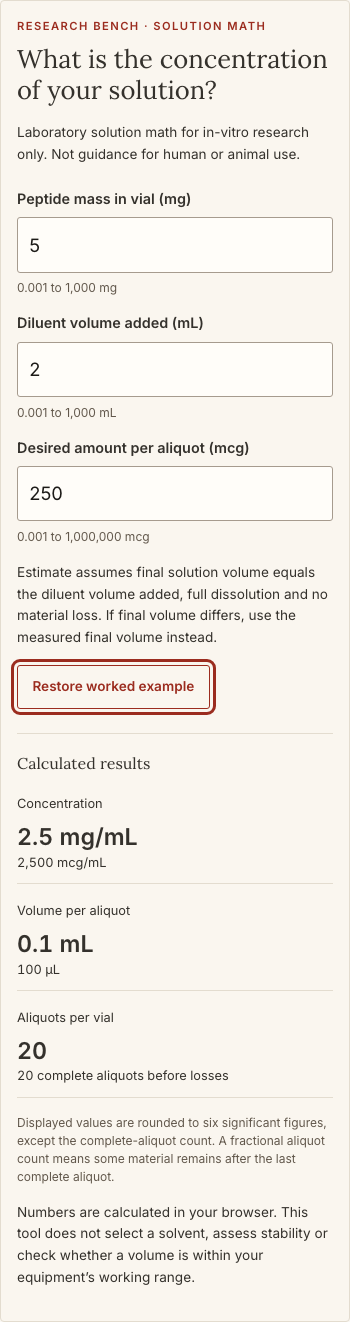
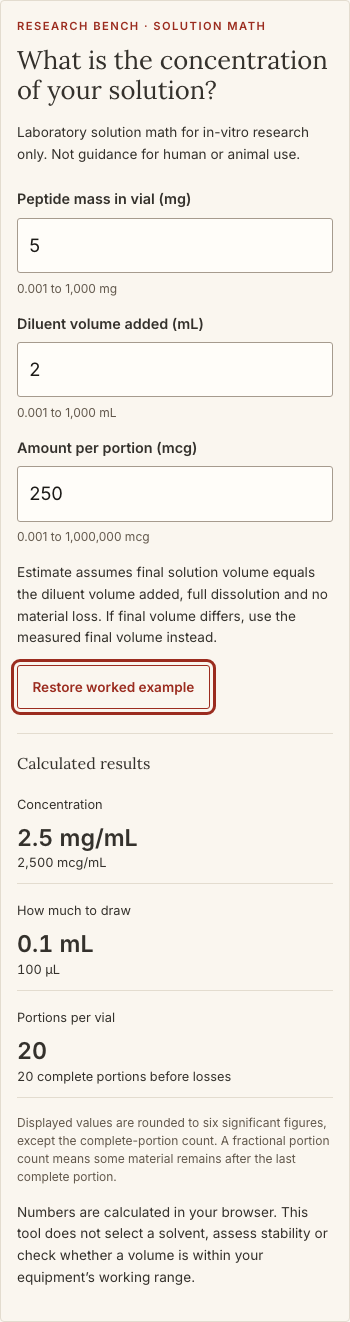
fix: address landing page review with exact decimal portion counts

diff --git a/app/peptide-calculator/story.ts b/app/peptide-calculator/story.ts
@@ -2,14 +2,15 @@ import type { NewsroomStory } from "@/components/NewsroomArticle";
 
 export const story: NewsroomStory = {
   slug: "peptide-calculator",
-  title: "Peptide calculator: concentration and aliquot math",
-  description: "Calculate research solution concentration in mg/mL and mcg/mL, aliquot volume in mL and µL, and aliquots per vial. Includes formulas and a worked example.",
+  title: "Peptide calculator: concentration and portion math",
+  description: "Calculate research solution concentration in mg/mL and mcg/mL, portion volume in mL and µL, and portions per vial. Includes formulas and a worked example.",
   date: "2026-11-04T03:30:32Z",
+  dateModified: "2026-11-04T04:11:55Z",
   type: "Article",
   category: "Laboratory tool",
   image: "peptideMathPipettes",
   vials: ["ghk", "kpv"],
-  lead: "This peptide calculator divides peptide mass by solution volume to find concentration, then calculates the volume needed for a chosen aliquot. An aliquot here is a measured portion of a laboratory solution. Enter mass in mg, volume in mL and the amount per aliquot in mcg. The calculation assumes a fully dissolved, uniform solution with no material loss.[6][7]",
+  lead: "This peptide calculator divides peptide mass by solution volume to find concentration, then calculates the volume needed for a chosen portion. Enter mass in mg, volume in mL and the amount per portion in mcg. The calculation assumes a fully dissolved, uniform solution with no material loss.[6][7]",
   notice: "Lab solution math for in-vitro research only, not guidance for human or animal use. The starting numbers below are a worked arithmetic example, not a recommended preparation.",
   sections: [
     {
@@ -23,29 +24,29 @@ export const story: NewsroomStory = {
     {
       title: "How does the concentration calculation work?", id: "how-the-math-works", paragraphs: [
         "Divide peptide mass in mg by final solution volume in mL to get mg/mL. Multiply that result by 1,000 to express the same concentration in mcg/mL. The mass-concentration definition uses the volume of the whole solution, rather than the solvent before mixing.[6][7]",
-        "For the aliquot volume, divide the desired amount in mcg by concentration in mcg/mL. The result is in mL. Multiply by 1,000 to express that volume in µL. These are rearrangements of the same mass-per-volume relationship.[6][7]",
-        "For aliquots per vial, divide total peptide mass in mcg by the amount per aliquot in mcg. The calculator also shows the number of complete aliquots, rounded down. This count assumes all the starting material remains available and that each portion has the calculated concentration.",
+        "For the portion volume, divide the desired amount in mcg by concentration in mcg/mL. The result is in mL. Multiply by 1,000 to express that volume in µL. These are rearrangements of the same mass-per-volume relationship.[6][7]",
+        "For portions per vial, divide total peptide mass in mcg by the amount per portion in mcg. The calculator also shows the number of complete portions, rounded down. This count assumes all the starting material remains available and that each portion has the calculated concentration.",
       ],
     },
     {
       title: "What does a worked example look like?", id: "worked-example", paragraphs: [
         "Suppose the stated peptide mass is 5 mg and the final solution volume is 2 mL. The concentration is 5 ÷ 2 = 2.5 mg/mL, or 2,500 mcg/mL. This is a fictional arithmetic example without a named compound.[6][7]",
-        "For a 250 mcg aliquot, divide 250 by 2,500. The result is 0.1 mL, which equals 100 µL. The vial contains 5,000 mcg in this example, so 5,000 ÷ 250 gives 20 aliquots before losses.[6]",
-        "If the desired amount changes to 300 mcg, the volume becomes 0.12 mL, or 120 µL. There are about 16.6667 aliquots in the mathematical total, but only 16 complete ones. The remaining material is not another full aliquot.",
+        "For a 250 mcg portion, divide 250 by 2,500. The result is 0.1 mL, which equals 100 µL. The vial contains 5,000 mcg in this example, so 5,000 ÷ 250 gives 20 portions before losses.[6]",
+        "If the desired amount changes to 300 mcg, the volume becomes 0.12 mL, or 120 µL. There are about 16.6667 portions in the mathematical total, but only 16 complete ones. The remaining material is not another full portion.",
       ],
     },
     {
       title: "Which input mistakes change the answer?", id: "common-mistakes", paragraphs: [
-        "Confusing mg with mcg changes the entered amount by a factor of 1,000. The form uses mg for the vial and mcg for the aliquot, so read both labels before copying a number. We use mcg as the plain-text spelling of micrograms and µL for microliters.[6]",
+        "Confusing mg with mcg changes the entered amount by a factor of 1,000. The form uses mg for the vial and mcg for the portion, so read both labels before copying a number. We use mcg as the plain-text spelling of micrograms and µL for microliters.[6]",
         "Another mistake is treating added diluent volume as a measured final volume. Dissolution can change the volume of the mixture. The tool initially assumes the two are equal; if volume displacement matters in your preparation, enter the measured final solution volume in the volume field instead.[7]",
         "Total powder mass may include water, counterions or residual solvents. It is not necessarily the same as the mass of the target peptide. A chromatographic purity figure does not, by itself, resolve that difference. Our [content-versus-purity explainer](/peptide-content-vs-purity-measurement) describes how laboratories assign an amount.[3]",
-        "Rounding also matters. Calculations use the entered values before display rounding, and the complete-aliquot count is rounded down. Keep the original measurements in your laboratory record rather than treating the displayed digits as evidence of measurement precision.",
+        "Rounding also matters. Calculations use the entered values before display rounding, and the complete-portion count is rounded down. Keep the original measurements in your laboratory record rather than treating the displayed digits as evidence of measurement precision.",
       ],
     },
     {
       title: "Why does the calculator reject some values?", id: "input-limits", paragraphs: [
-        "The form accepts positive decimal numbers within its displayed ranges: 0.001 to 1,000 mg for mass, 0.001 to 1,000 mL for volume, and 0.001 to 1,000,000 mcg for an aliquot. These are software limits, not evidence that a particular preparation is practical.",
-        "Blank entries, zero, negative values and non-numeric text pause the results. Use a period for decimals and omit commas. The tool also rejects an aliquot larger than the total entered peptide mass. Correct the marked field to resume the calculation.",
+        "The form accepts positive decimal numbers within its displayed ranges: 0.001 to 1,000 mg for mass, 0.001 to 1,000 mL for volume, and 0.001 to 1,000,000 mcg for a portion. These are software limits, not evidence that a particular preparation is practical.",
+        "Blank entries, zero, negative values and non-numeric text pause the results. Use a period for decimals and omit commas. The tool also rejects a portion larger than the total entered peptide mass. Correct the marked field to resume the calculation.",
       ],
     },
     {
@@ -57,7 +58,7 @@ export const story: NewsroomStory = {
   ],
   faqs: [
     { q: "What is the concentration of 5 mg in 2 mL?", a: "If the final solution volume is 2 mL and the peptide is fully dissolved, 5 mg divided by 2 mL is 2.5 mg/mL, or 2,500 mcg/mL. This is an arithmetic example, not a recommended preparation.", refs: [6, 7] },
-    { q: "How much solution contains a 250 mcg aliquot in that example?", a: "At 2,500 mcg/mL, 250 mcg corresponds to 0.1 mL, or 100 µL. A starting mass of 5 mg gives 20 such aliquots mathematically, before any losses.", refs: [6, 7] },
+    { q: "How much solution contains a 250 mcg portion in that example?", a: "At 2,500 mcg/mL, 250 mcg corresponds to 0.1 mL, or 100 µL. A starting mass of 5 mg gives 20 such portions mathematically, before any losses.", refs: [6, 7] },
     { q: "Should I enter diluent volume or final solution volume?", a: "The concentration formula requires final solution volume. The tool assumes it equals the added diluent volume. If dissolution changes the volume enough to matter, use the measured final solution volume instead.", refs: [7] },
     { q: "Does a high purity percentage confirm the mass in a vial?", a: "No. Chromatographic purity and peptide content describe different measurements. Water, counterions and other constituents can affect the mass accounting. The calculator cannot establish the actual amount of peptide present.", refs: [3] },
   ],

diff --git a/lib/peptide-math.ts b/lib/peptide-math.ts
@@ -1,40 +1,60 @@
 export const solutionFields = {
   mass: { label: "Peptide mass in vial (mg)", min: 0.001, max: 1000, range: "0.001 to 1,000 mg" },
   volume: { label: "Diluent volume added (mL)", min: 0.001, max: 1000, range: "0.001 to 1,000 mL" },
-  aliquot: { label: "Desired amount per aliquot (mcg)", min: 0.001, max: 1000000, range: "0.001 to 1,000,000 mcg" },
+  portion: { label: "Amount per portion (mcg)", min: 0.001, max: 1000000, range: "0.001 to 1,000,000 mcg" },
 } as const;
 export type SolutionField = keyof typeof solutionFields;
 export type SolutionErrors = Partial<Record<SolutionField, string>>;
 
+// Call only after decimal syntax validation. Preserve every entered digit for
+// range/capacity comparisons and the whole-portion quotient, never a tolerance.
+function decimalRatio(text: string) {
+  const [whole, fraction = ""] = text.split(".");
+  return { numerator: BigInt(whole + fraction), denominator: BigInt(10) ** BigInt(fraction.length) };
+}
+
 // Decimal text only: reject partial parses, hexadecimal, comma ambiguity and non-finite values.
-export function calculateSolution(mass: string, volume: string, aliquot: string) {
-  const raw = { mass, volume, aliquot };
+export function calculateSolution(mass: string, volume: string, portion: string) {
+  const raw = { mass, volume, portion };
   const errors: SolutionErrors = {};
   const values = {} as Record<SolutionField, number>;
+  const exact = {} as Record<SolutionField, ReturnType<typeof decimalRatio>>;
   for (const field of Object.keys(solutionFields) as SolutionField[]) {
     const text = raw[field].trim();
     const value = Number(text);
     const rule = solutionFields[field];
     if (!/^(?:\d+(?:\.\d*)?|\.\d+)$/.test(text) || !Number.isFinite(value)) {
       errors[field] = `Enter a decimal number in ${rule.range}; use a period for decimals.`;
-    } else if (value < rule.min || value > rule.max) {
-      errors[field] = `Enter a value from ${rule.range}. Zero and negative values are not accepted.`;
+    } else {
+      const decimal = decimalRatio(text);
+      const min = decimalRatio(String(rule.min));
+      const max = decimalRatio(String(rule.max));
+      exact[field] = decimal;
+      if (decimal.numerator * min.denominator < min.numerator * decimal.denominator ||
+          decimal.numerator * max.denominator > max.numerator * decimal.denominator) {
+        errors[field] = `Enter a value from ${rule.range}. Zero and negative values are not accepted.`;
+      }
     }
     values[field] = value;
   }
   if (Object.keys(errors).length) return { ok: false as const, errors };
-  const { mass: massMg, volume: volumeMl, aliquot: aliquotMcg } = values;
-  if (aliquotMcg > massMg * 1000) {
-    return { ok: false as const, errors: { aliquot: "The requested aliquot exceeds the total peptide mass in this vial." } as SolutionErrors };
+  const { mass: massMg, volume: volumeMl, portion: portionMcg } = values;
+  // Cross-multiply into the same exact scale in mcg. Positive integer division
+  // floors genuine fractional portions, including digits Number() cannot retain.
+  const total = exact.mass.numerator * BigInt(1000) * exact.portion.denominator;
+  const requested = exact.portion.numerator * exact.mass.denominator;
+  if (requested > total) {
+    return { ok: false as const, errors: { portion: "The requested portion exceeds the total peptide mass in this vial." } as SolutionErrors };
   }
+  // The supported ranges cap this integer at 1,000,000,000, safely within Number.
+  const fullPortions = Number(total / requested);
+  const portions = total % requested === BigInt(0) ? fullPortions : massMg * 1000 / portionMcg;
+  // Floating point is only for approximate displayed concentration/volume, not
+  // acceptance or complete counts. An exact whole vial uses its entered volume.
   const mgPerMl = massMg / volumeMl;
   const mcgPerMl = mgPerMl * 1000;
-  const aliquotMl = aliquotMcg / mcgPerMl;
-  const aliquots = massMg * 1000 / aliquotMcg;
-  // Correct only machine-rounding noise at an integer boundary, not a real remainder.
-  const nearest = Math.round(aliquots);
-  const fullAliquots = Math.floor(Math.abs(aliquots - nearest) <= Number.EPSILON * Math.max(1, aliquots) * 4 ? nearest : aliquots);
-  return { ok: true as const, mgPerMl, mcgPerMl, aliquotMl, aliquotUl: aliquotMl * 1000, aliquots, fullAliquots };
+  const portionMl = total === requested ? volumeMl : portionMcg / mcgPerMl;
+  return { ok: true as const, mgPerMl, mcgPerMl, portionMl, portionUl: portionMl * 1000, portions, fullPortions };
 }
 
 export function formatLabNumber(value: number): string {

diff --git a/components/PeptideCalculator.tsx b/components/PeptideCalculator.tsx
@@ -4,10 +4,10 @@ import { useState } from "react";
 import { calculateSolution, formatLabNumber, solutionFields, type SolutionField } from "@/lib/peptide-math";
 import styles from "./PeptideCalculator.module.css";
 
-const example = { mass: "5", volume: "2", aliquot: "250" };
+const example = { mass: "5", volume: "2", portion: "250" };
 export function PeptideCalculator() {
   const [values, setValues] = useState(example);
-  const result = calculateSolution(values.mass, values.volume, values.aliquot);
+  const result = calculateSolution(values.mass, values.volume, values.portion);
   return <section className={`not-prose ${styles.tool}`} aria-labelledby="calculator-heading" data-calculator>
     <p className={styles.eyebrow}>Research bench · solution math</p>
     <h2 id="calculator-heading">What is the concentration of your solution?</h2>
@@ -34,10 +34,10 @@ export function PeptideCalculator() {
         <h3>Calculated results</h3>
         <dl>
           <div><dt>Concentration</dt><dd><span data-result="mg-per-ml">{formatLabNumber(result.mgPerMl)}</span> mg/mL <small><span data-result="mcg-per-ml">{formatLabNumber(result.mcgPerMl)}</span> mcg/mL</small></dd></div>
-          <div><dt>Volume per aliquot</dt><dd><span data-result="aliquot-ml">{formatLabNumber(result.aliquotMl)}</span> mL <small><span data-result="aliquot-ul">{formatLabNumber(result.aliquotUl)}</span> µL</small></dd></div>
-          <div><dt>Aliquots per vial</dt><dd><span data-result="aliquots">{formatLabNumber(result.aliquots)}</span> <small><span data-result="full-aliquots">{result.fullAliquots.toLocaleString("en-US")}</span> complete aliquots before losses</small></dd></div>
+          <div><dt>How much to draw</dt><dd><span data-result="portion-ml">{formatLabNumber(result.portionMl)}</span> mL <small><span data-result="portion-ul">{formatLabNumber(result.portionUl)}</span> µL</small></dd></div>
+          <div><dt>Portions per vial</dt><dd><span data-result="portions">{formatLabNumber(result.portions)}</span> <small><span data-result="full-portions">{result.fullPortions.toLocaleString("en-US")}</span> complete portions before losses</small></dd></div>
         </dl>
-        <p className={styles.hint}>Displayed values are rounded to six significant figures, except the complete-aliquot count. A fractional aliquot count means some material remains after the last complete aliquot.</p>
+        <p className={styles.hint}>Displayed values are rounded to six significant figures, except the complete-portion count. A fractional portion count means some material remains after the last complete portion.</p>
       </> : <p className={styles.error}>Results paused. {Object.values(result.errors).join(" ")}</p>}
     </div>
     <p className={styles.note}>Numbers are calculated in your browser. This tool does not select a solvent, assess stability or check whether a volume is within your equipment’s working range.</p>

diff --git a/app/what-are-peptides/story.ts b/app/what-are-peptides/story.ts
@@ -5,6 +5,7 @@ export const story: NewsroomStory = {
   title: "What are peptides? Structure, synthesis and laboratory testing",
   description: "Peptides are amino acid chains joined by peptide bonds. Learn how they differ from proteins, how laboratories make them, and what testing can establish.",
   date: "2026-11-04T03:30:32Z",
+  dateModified: "2026-11-04T04:11:55Z",
   type: "Article",
   category: "Explainer",
   image: "peptideBasicsSynthesizer",
@@ -24,7 +25,7 @@ export const story: NewsroomStory = {
     {
       title: "What holds a peptide chain together?", id: "peptide-bonds", paragraphs: [
         "The link is an amide bond, called a peptide bond when it connects amino acids. In the basic chemical description, an amino group reacts with a carboxyl group and water is released. Repeating that connection creates a chain. A chain of two amino acids is a dipeptide; three make a tripeptide.[1]",
-        "A sequence records the order of those amino acids. By convention, it is written from the amino end, called the N-terminus, toward the carboxyl end, called the C-terminus. Reading the same list backward describes a different sequence.[1]",
+        "A sequence records the order of those amino acids. By convention, it is written from the amino end, called the N-terminus, toward the carboxyl end, called the C-terminus. Reading the list backward can describe a different sequence. A palindromic sequence, however, reads the same in both directions.[1]",
         "That order is part of the molecule's identity, not merely a way to label a bottle. The same amino acid composition can produce different behavior when the sequence changes. Our explainer on [scrambled peptide controls](/scrambled-peptide-controls-not-inactive) follows that problem into laboratory experiments.[1]",
       ],
     },
@@ -92,7 +93,7 @@ export const story: NewsroomStory = {
     { id: 4, url: "https://www.fda.gov/media/87374/download", title: "FDA: Research use only diagnostic products (2013)" },
   ],
   related: [
-    { url: "/peptide-calculator", title: "Peptide calculator: concentration and aliquot math" },
+    { url: "/peptide-calculator", title: "Peptide calculator: concentration and portion math" },
     { url: "/peptide-content-vs-purity-measurement", title: "Peptide content versus purity" },
     { url: "/how-to-read-peptide-coa", title: "How to read a peptide certificate of analysis" },
     { url: "/what-does-research-use-only-mean", title: "What research use only means" },

diff --git a/app/sitemap.ts b/app/sitemap.ts
@@ -8,13 +8,13 @@ export default function sitemap(): MetadataRoute.Sitemap {
   return [
     {
       url: `${base}/what-are-peptides`,
-      lastModified: new Date("2026-11-04T03:30:32Z"),
+      lastModified: new Date("2026-11-04T04:11:55Z"),
       changeFrequency: "monthly",
       priority: 0.85,
     },
     {
       url: `${base}/peptide-calculator`,
-      lastModified: new Date("2026-11-04T03:30:32Z"),
+      lastModified: new Date("2026-11-04T04:11:55Z"),
       changeFrequency: "monthly",
       priority: 0.85,
     },
@@ -404,7 +404,7 @@ export default function sitemap(): MetadataRoute.Sitemap {
     },
     {
       url: base,
-      lastModified: new Date("2026-11-02T13:40:00Z"),
+      lastModified: new Date("2026-11-04T04:11:55Z"),
       changeFrequency: "daily",
       priority: 1,
     },

diff --git a/app/page.tsx b/app/page.tsx
@@ -32,8 +32,8 @@ const latestArticles: CardArticle[] = [
     category: "Laboratory tool",
     date: "November 3, 2026",
     readTime: "5 min read",
-    title: "Peptide calculator: concentration and aliquot math",
-    excerpt: "Check research solution concentration, aliquot volume and aliquots per vial. Includes a worked example and the limits of the calculation.",
+    title: "Peptide calculator: concentration and portion math",
+    excerpt: "Check research solution concentration, portion volume and portions per vial. Includes a worked example and the limits of the calculation.",
     image: "peptideMathPipettes",
   },
 {

diff --git a/reports/qa/ads-landing-pages-20261103/README.md b/reports/qa/ads-landing-pages-20261103/README.md
@@ -1,78 +1,75 @@
-# Ads-intent evergreen pages: local acceptance evidence
+# Ads-intent evergreen pages: FIX1 local acceptance evidence
 
-State: PR-ready. Builder owns feature-delivery gates 1–7 only. Independent review and release gates remain with the parent; no merge or deployment is authorized.
+State: **In review**. PR #37's bounded correction round follows independent review of `d172c5f5f9c15ee214662a1aa5b3fbc3aa8668d7`. This is not approval to merge or deploy; the revised head requires independent re-review.
 
-## Scope and implementation
+## Findings addressed
 
-- Adds `/what-are-peptides`: direct definition, peptide bonds and size conventions, natural/synthetic production, SPPS, HPLC/mass spectrometry, purity/content, RUO scope, and approved-medicine context without efficacy or administration guidance.
-- Adds `/peptide-calculator`: client-only lab arithmetic with bounded positive-decimal inputs, associated labels/errors, polite live results, reset, final-volume caveat and a worked example. No compound names in the tool. No new persistence, requests, analytics or dependencies.
-- Both use the existing ArticleHero/NewsroomArticle metadata, Article + FAQPage JSON-LD, matching visible FAQs, canonical/OG, related links, and unchanged IQONPartner cards twice with different starting vials. Homepage and sitemap entries added. Distinct Commons photos and adaptation credits registered.
-- Retains the resumed `NewsroomArticle` optional children slot because it hosts the calculator without duplicating the article template. Existing articles pass no children and preserve their markup.
-- Retains package scripts for tests/types; adds `npm test` for the two test files. No dependency/lockfile changes.
-- Full lint initially exposed pre-existing errors. `IQONLink` replaces `any` with a local type; its transpiled JavaScript was compared with origin/main and is byte-for-byte identical. ESLint excludes only historical `reports/copy-review/before/**` snapshots, not application source.
-- `vercel.json` disables automatic deployment for this exact feature branch only. Other branches retain Vercel defaults. This is necessary because the connected Git integration otherwise creates preview deployments on push.
+| Review finding | Status | Change and evidence |
+| --- | --- | --- |
+| 1. Owner terminology | FIXED in authorized scope | Both new stories, calculator, validation errors, homepage card and related link use plain portion wording. Exact UI labels: “Amount per portion (mcg)”, “How much to draw”, “Portions per vial”. Internal names and DOM attributes also renamed. Raw served HTML of both new routes has zero `/aliquot/i` hits and zero full banned-term matches, including metadata/schema/serialized content. Visible FAQ questions and answers match FAQPage JSON-LD. |
+| 2. Decimal boundaries | FIXED | Exact decimal BigInt ratios enforce ranges, compare capacity and floor the complete-portion quotient. No EPSILON promotion. Approximate display rounding stays separate. RED tests reproduced the ordinary whole-vial rejection, false extra complete portion and excessive-precision acceptance before the math change. |
+| 3. Sitemap dates | FIXED | Homepage and both new routes use `2026-11-04T04:11:55Z` (November 3 in New York), the correction-session timestamp. New stories preserve publication dates and set matching `dateModified`. Historical sitemap dates and shared `now` remain untouched. Served sitemap and Article schema checked. |
+| 5. Sequence reversal | FIXED | Reversal “can” change the sequence; palindromic sequences explicitly read the same both ways. |
+| Parent follow-up: remove branch config | FIXED | New `vercel.json` deleted. Parent controls deployment outside this PR; no branch-specific config should land on main. |
+| 4. Existing broad terminology across 33/73 routes | OUT OF SCOPE, unchanged | This is not a full-domain terminology PASS. Historical articles, including seven historical jargon-bearing lines, remain unchanged. Parent retains release-policy/process decisions. |
 
-## Tests exercised
+## Executed verification
 
 | Check | Result |
 | --- | --- |
-| `npm run build` | PASS, Next.js 16.3.6; 77 generated pages |
-| `npm run lint` | PASS, zero errors/warnings after the scoped baseline fixes |
-| `npm run typecheck` | PASS (`tsc --noEmit`) |
-| `npm test` | PASS, 42 tests, zero failed/skipped: 40 math/input tests and 2 page-contract tests |
-| `git diff --check` | PASS |
-| 5 mg / 2 mL / 250 mcg | 2.5 mg/mL; 2,500 mcg/mL; 0.1 mL; 100 µL; 20 aliquots |
-| Browser edits | Changing values recomputes; invalid values remove stale results; excess aliquot rejected; fractional remainder rounds complete count down |
-| Browser accessibility checks | Explicit labels, linked range/error text, `aria-invalid`, polite live status; normal Tab order and Enter reset verified |
-| Built `next start`, Playwright from `/tmp/pwq` | Both routes and home return 200 at 390px and 1440px; no horizontal overflow, broken images or page errors |
-| SEO/rendered structure | One H1, one exact canonical, correct OG URL; Article and FAQPage parsed; schema answers equal visible answers; two big cards with early placement verified |
-| New-route raw HTML exclusions | Zero matches for the requested full banned-term regex on both routes, including scripts/attributes |
-| Sitewide regression | All 73 sitemap URLs return 200 with one exact route canonical; zero excluded-compound matches in raw HTML, decoded links, JSON-LD and parsed visible text |
-| SlopMonster, actual served HTML | Explainer **5/5**, calculator **4/5**; calculator flags two self-answering question patterns. Question headings/visible FAQ are intentional requirements. No score override used. |
+| `npm run build` | Exit 0; Next.js 16.3.6, 77/77 static pages |
+| `npm run lint` | Exit 0 |
+| `npm run typecheck` | Exit 0 |
+| `npm test` | Exit 0; **51 passed, 0 failed, 0 skipped** |
+| RED test run | Exit 1; 51 tests, 8 failed as expected (two wording, six exact-decimal regressions); 43 passed |
+| `next start` + Playwright | Both new routes and homepage at 390px touch viewport and 1440px: 6/6 HTTP 200; no horizontal overflow, broken images or page errors |
+| Browser calculation | New labels; required reference example, whole-vial decimal, near-integer remainder and ordinary fractions all tested by filling actual inputs |
+| Browser validation/accessibility | Invalid inputs remove stale results; exact oversized decimal rejected; ordinary Tab order, Enter reset and desktop input alignment pass |
+| Served exclusions | **2/2 new routes: 0 hits**, including scripts/attributes; separate `/aliquot/i` check also 0 |
+| Rendered SEO/schema | One H1 and exact canonical per new route; Article dates checked; visible FAQ questions AND answers equal schema |
+| SlopMonster on served HTML | Explainer **5/5**, 1,831 visible words, exit 0; calculator **4/5**, 1,431 words, exit 1 (two intentional question-heading patterns; no override) |
 
-The page-contract test was run before the pages existed and failed for missing stories. A desktop input-alignment test reproduced the wrapped-label offset, then passed after reserving two lines for desktop labels. Existing math RED/GREEN logs from the resumed work are retained.
+Numerical outcomes verified in tests and the actual production browser:
+
+- `5 / 2 / 250`: 2.5 mg/mL, 2,500 mcg/mL, 0.1 mL, 100 µL, **20 complete portions**.
+- `1.001 / 2 / 1001`: accepted, **1 portion**, 2 mL / 2,000 µL.
+- `0.001 / 1 / 0.10000000000000005`: **9 complete portions**, not 10. The approximate six-significant-figure total displays 10; the separately labeled complete count remains exactly 9.
+- `0.001 / 1 / 1.0000000000000001`: rejected as larger than the entered total, despite Number() alone losing that distinction.
+- `19.9999 / 2 / 1000` and `19.6 / 2 / 1000`: **19 complete portions** each. Exact 20 remains 20.
 
 ## Reproduction and evidence
 
 Worktree: `/Users/edorfanini/Projects/peptidedigest-ads-20261103`
 
-Private evidence directory: `/Users/edorfanini/.hermes/workspace/peptide-digest-ads-pages/`
+Evidence directory: `/Users/edorfanini/.hermes/workspace/peptide-digest-ads-pages/`
 
 ```sh
 npm run build
 npm run lint
 npm run typecheck
 npm test
-npm run start -- --port 3127 --hostname 127.0.0.1
-# Separate terminal, using installed Playwright at /tmp/pwq:
-node /Users/edorfanini/.hermes/workspace/peptide-digest-ads-pages/browser-qa.mjs
-python3 /Users/edorfanini/.hermes/workspace/peptide-digest-ads-pages/audit.py
-python3 /tmp/peptide-slopmonster/tools/deslop.py /Users/edorfanini/.hermes/workspace/peptide-digest-ads-pages/what-are-peptides.html
-python3 /tmp/peptide-slopmonster/tools/deslop.py /Users/edorfanini/.hermes/workspace/peptide-digest-ads-pages/peptide-calculator.html
+npm run start -- --port 3197 --hostname 127.0.0.1
+# Separate terminal:
+node /Users/edorfanini/.hermes/workspace/peptide-digest-ads-pages/FIX1-browser.mjs
+python3 /tmp/peptide-slopmonster/tools/deslop.py /Users/edorfanini/.hermes/workspace/peptide-digest-ads-pages/FIX1-what-are-peptides.html
+python3 /tmp/peptide-slopmonster/tools/deslop.py /Users/edorfanini/.hermes/workspace/peptide-digest-ads-pages/FIX1-peptide-calculator.html
 ```
 
-Logs in that directory: `build.txt`, `lint.txt`, `types.txt`, `tests.txt`, `browser-qa.json`, `browser-qa.txt`, `sitewide-scan.json`, `audit.txt`, `slop-what-are-peptides.txt`, `slop-peptide-calculator.txt`, `pages-red.txt`, `alignment-red.txt`. SlopMonster returns exit 1 below 5/5, including the accepted 4/5 calculator result.
+Saved evidence: `FIX1-build.txt`, `FIX1-lint.txt`, `FIX1-typecheck.txt`, `FIX1-tests-red.txt`, `FIX1-tests-green.txt`, `FIX1-browser.mjs`, `FIX1-browser.json`, `FIX1-browser-run.txt`, `FIX1-sitemap.xml`, `FIX1-*-rendered.txt`, `FIX1-*.html`, `FIX1-slop-*.txt`. `FIX1-RESULT.md` records the final commit/push receipt.
 
-Phone screenshots, copied below for PR review:
+Refreshed screenshots copied into this report directory:
 
 - `what-are-peptides-390.png`
 - `peptide-calculator-390.png`
-- `peptide-calculator-tool-full-390.png` (350px component inside the 390px viewport)
-- `peptide-calculator-tool-full-1440.png` (desktop component)
+- `peptide-calculator-tool-full-390.png` — 350px component inside a verified 390px viewport; viewport height increased only for the full-component capture so fixed bars do not cover it.
+- `peptide-calculator-tool-full-1440.png`
 
-The evidence directory also includes full-page screenshots for both routes at both widths and home captures. No image substitution was used. External requests were blocked during browser QA so existing analytics did not receive local test traffic; all local images loaded normally.
+Third-party traffic was blocked during local QA, preventing test analytics. Local image assets loaded normally without substitution. All captures are from the new production build.
 
-## Gate 6 self-review
+## Scope and remaining gates
 
-Reviewed all changed application files against the requested scope and current origin/main `325bfd8d9bd0fdfd92bbae65b4cdac4b6296cce0`. No shared offer, layout, live ad, backend, dependency, credential or existing article content changes. Final origin/main check was unchanged. Sources were actually opened from retained captures or live downloads; the retrieved ledger preserves IDs and verbatim evidence. Paragraph-to-source maps and complete drafts are saved privately. No invented interviews or experimental results.
-
-Editorial pass: the definition comes first; sequence leads into synthesis, then measurements, then intended use. The size-boundary paragraph identifies the textbook and regulatory conventions instead of presenting either as universal. The calculator explains final volume beside its inputs and distinguishes mathematical aliquots from complete portions. Both conclude their editorial explanation before the final offer. No mid-sentence em dashes in new stories.
-
-## Limitations and release notes
-
-- This is a local build, not independent editorial/safety approval, clinical validation, an Ads-policy approval or production verification. The existing commercial cards/sticky bar remain unchanged; wording alone cannot guarantee advertising eligibility.
-- The build retains the pre-existing Next.js middleware-to-proxy deprecation warning. Migrating middleware is outside this feature.
-- Optional molarity is intentionally omitted. Software input bounds do not certify real-world preparation or equipment suitability. No screen-reader session or physical-device testing was performed; accessibility evidence is semantic/keyboard/browser-based.
-- The IUPAC primary definition was bot-blocked even after recovery attempts. The calculator cites the actually opened secondary mass-concentration explanation for the definition/final-volume distinction and NIST for prefix conversions. It does not pretend that IUPAC was opened.
-- The bundled citation verifier truncates URLs containing parentheses, producing false URL mismatches for LibreTexts and Wikipedia even in its own plain rendering. That failure is not called a PASS. An independent structured check verifies exact source IDs/URLs (including parentheses), matching source blocks and evidence for every cited source; `audit.txt` records its PASS.
-- No migrations or environment variables. Rollback is a revert of the feature commit. Do not merge/deploy until independent gates pass. Remove or deliberately revise the feature-branch deployment opt-out only when a preview is authorized.
+- No historical article content, shared article renderer, offers, layout, live ads, backend, dependencies, credentials or migrations changed in FIX1. The optional calculator slot and baseline type/lint fixes from the original feature remain as reviewed.
+- No deployment command or merge is authorized. Deleting `vercel.json` is the parent's explicit follow-up; deployment control belongs to the parent, not a branch-specific config left in main. Actual remote deployment/check observations are recorded separately after push.
+- Independent review A remains the preserved audit of the old head, not an approval inherited by this fix. Historical broad-term policy, generated-image versus licensed-photo applicability, saved-post SEO mapping and final review/freeze gates remain with the parent.
+- The existing middleware-to-proxy deprecation warning remains. No physical-device or screen-reader application test, Ads approval, clinical validation, ranking claim or live-production verification is asserted.
+- Rollback: revert the scoped fix commit for these corrections, or revert the feature for full removal. No data migration or environment change.
